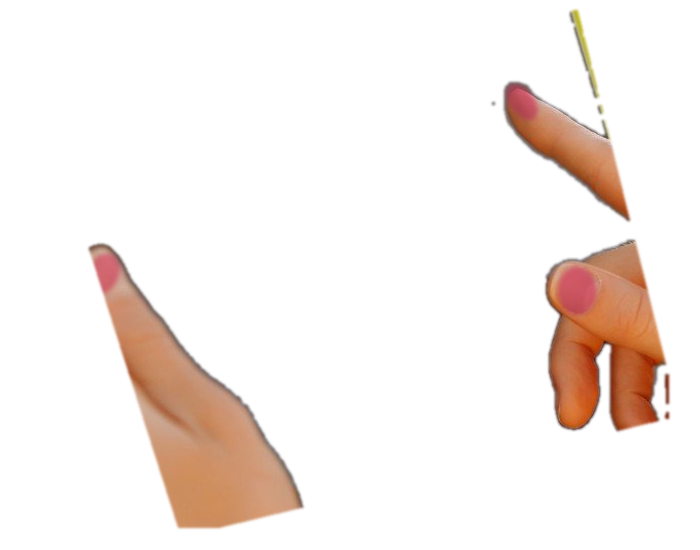
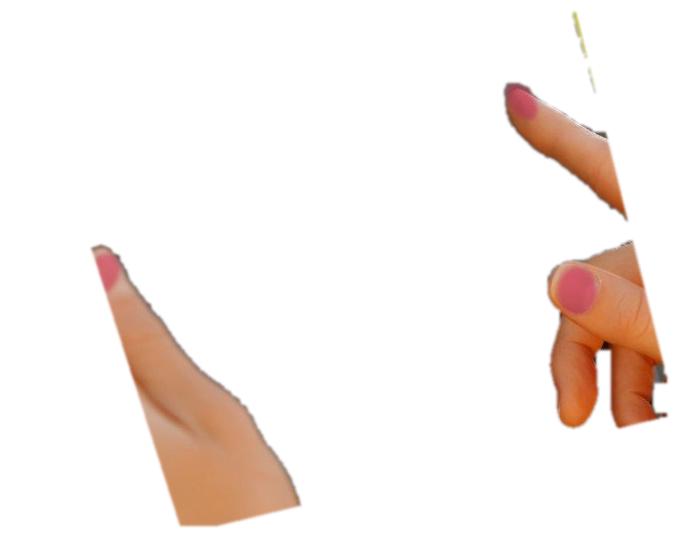
Fix tablet intro: solid hand mask and shade layered above hand
Claude-Session: https://claude.ai/code/session_01AHckBnDBuQk4hAXAJDHo2P

diff --git a/css/style.css b/css/style.css
@@ -321,7 +321,7 @@ body.ready .hero .rise:nth-child(3){transition-delay:.24s}
 .stage{position:relative;height:100%;border-radius:30px;overflow:hidden;background:#8aa23a;color:#fff;isolation:isolate}
 .world{position:absolute;top:0;left:0;width:2000px;height:1328px;transform-origin:0 0;will-change:transform}
 .world img{width:2000px;height:1328px;max-width:none;display:block}
-.scene-shade{position:absolute;inset:0;z-index:1;pointer-events:none;background:linear-gradient(270deg,rgba(20,18,14,.78) 0%,rgba(20,18,14,.5) 38%,rgba(20,18,14,0) 68%),linear-gradient(180deg,rgba(20,18,14,.3),transparent 28%)}
+.scene-shade{position:absolute;inset:0;z-index:3;pointer-events:none;background:linear-gradient(270deg,rgba(20,18,14,.78) 0%,rgba(20,18,14,.5) 38%,rgba(20,18,14,0) 68%),linear-gradient(180deg,rgba(20,18,14,.3),transparent 28%)}
 .scene-intro{position:absolute;z-index:3;top:0;bottom:0;right:clamp(1.4rem,5vw,5rem);width:min(470px,92%);display:flex;flex-direction:column;justify-content:center;align-items:flex-start;gap:0;padding-top:4.5rem}
 .scene-intro .h1{color:#fff;text-wrap:balance}
 .scene-intro .h1 em{color:#f0d9b8}
